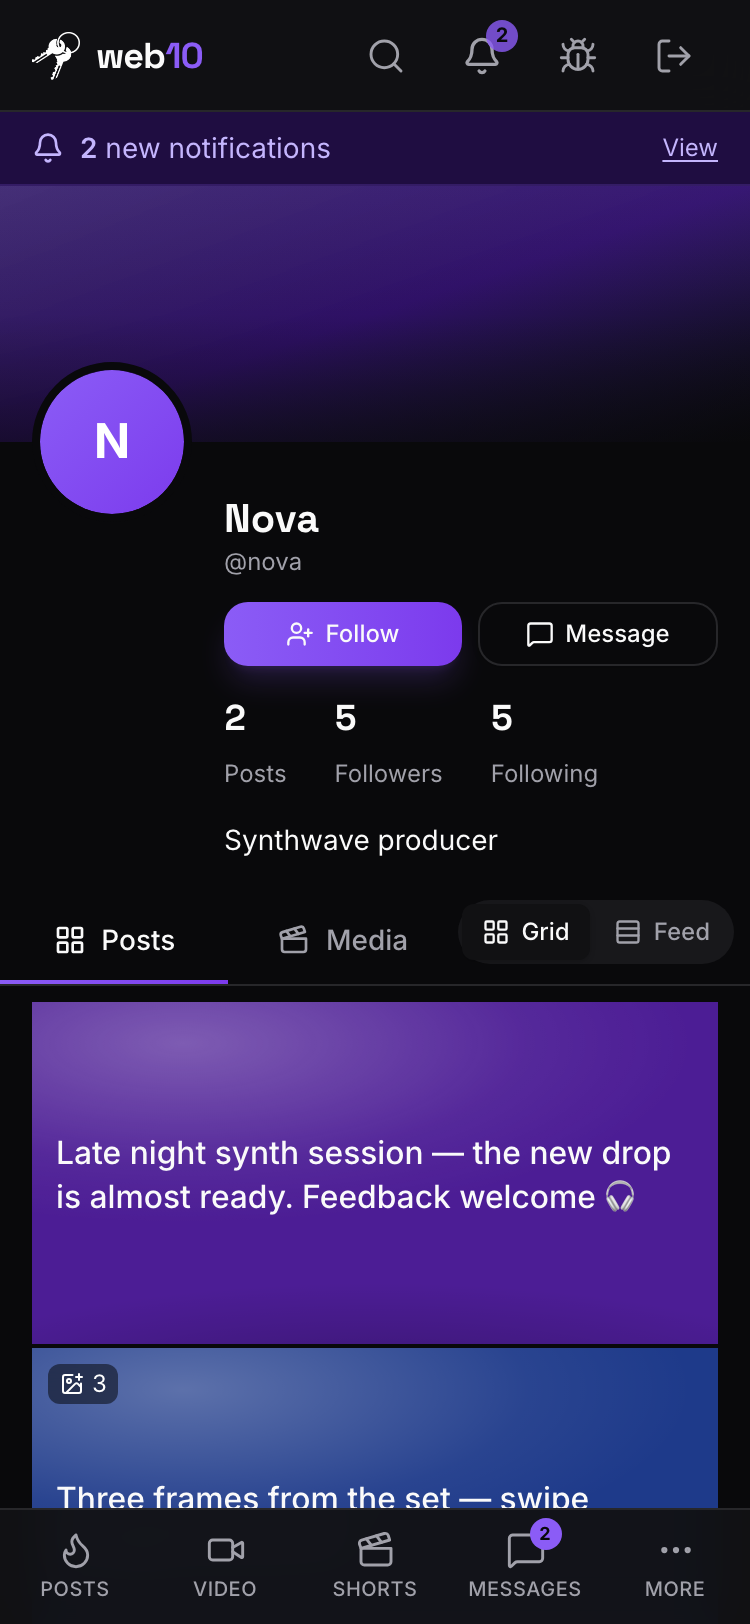
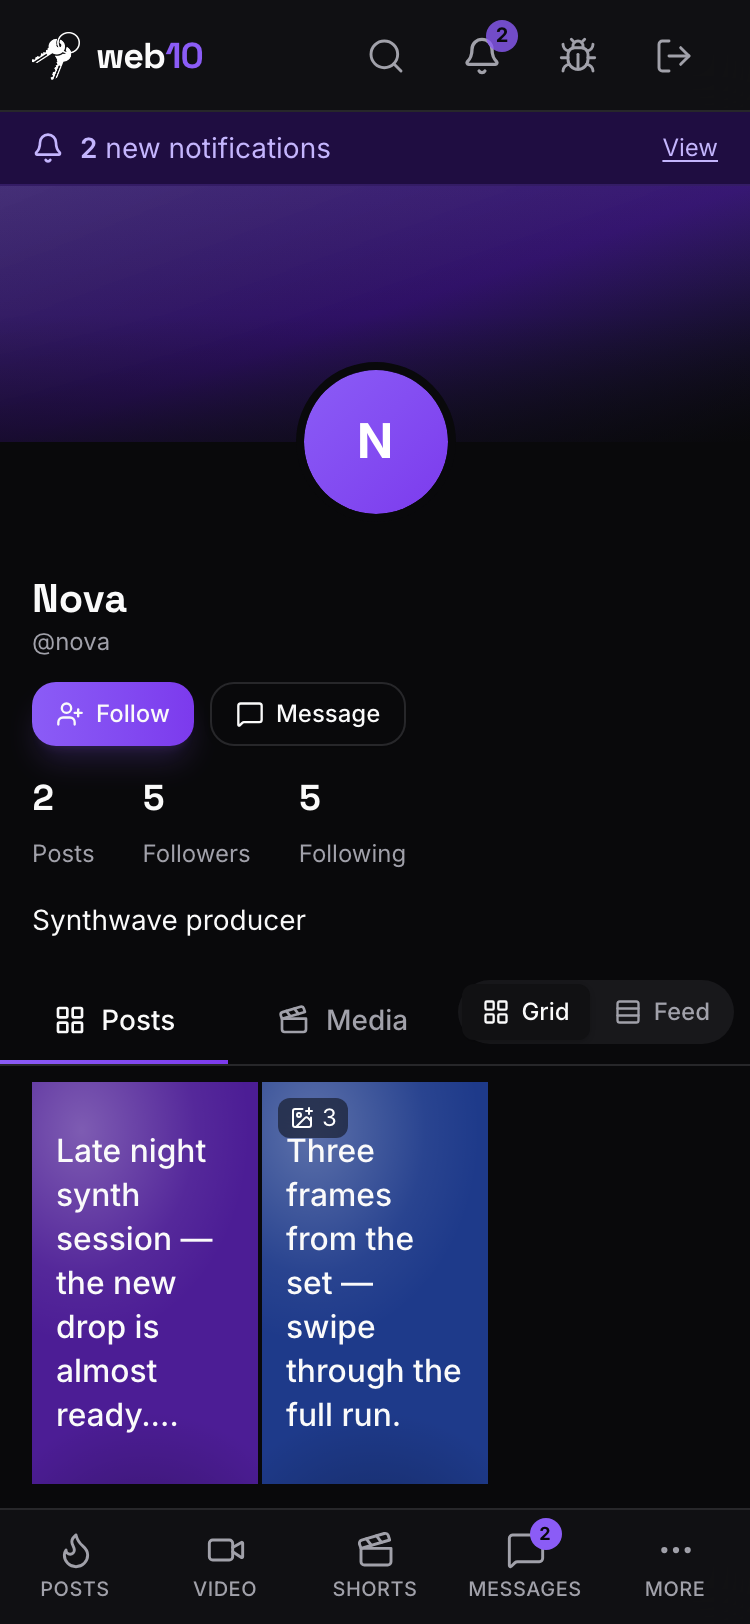
fix(web10-social): profile is 3 phone-shaped (9:16) columns + stacked mobile header (the Instagram shape)
Operator: 'this right alignment is killing me' + 'is that one mono column? aka not what we said?' + 'i like the three phone shaped columns'. (1) Header: flex-col sm:flex-row — avatar centered on top on mobile, name + full-width buttons stack below it (the Instagram mobile shape); desktop keeps avatar-left / name+buttons-right. (2) Grid: every tile (media + text-only) is a 9:16 phone-shaped cell in the 3-up grid (reverted the square-tile + full-width-text-card pass the operator rejected), square-cornered on mobile (rounded-none sm:rounded-lg). 1174 green, tsc clean.

diff --git a/marketing/web10-social/src/components/Bio/UserProfileScreen.tsx b/marketing/web10-social/src/components/Bio/UserProfileScreen.tsx
@@ -127,7 +127,6 @@ interface WallTileProps {
  */
 function WallTile({ media, testId, title, caption, postId, multiCount, onClick }: WallTileProps) {
   const video = isVideo(media);
-  const isTextOnly = !media.url;
   // The text-only tile's heading: the title (D82) when present, else the
   // caption. `ariaLabel` keeps the accessible name stable.
   const heading = title || caption;
@@ -145,11 +144,8 @@ function WallTile({ media, testId, title, caption, postId, multiCount, onClick }
         }
       }}
       className={cn(
-        'relative w-full bg-elevated overflow-hidden group cursor-pointer outline-none focus-visible:ring-2 focus-visible:ring-ring focus-visible:ring-inset',
+        'relative aspect-[9/16] w-full bg-elevated overflow-hidden group cursor-pointer outline-none focus-visible:ring-2 focus-visible:ring-ring focus-visible:ring-inset',
         'rounded-none sm:rounded-lg',
-        isTextOnly
-          ? 'col-span-3 sm:col-span-1 aspect-[2/1] sm:aspect-[9/16]'
-          : 'aspect-square sm:aspect-[9/16]',
       )}
     >
       {video ? (
@@ -693,11 +689,12 @@ export default function UserProfileScreen({ username, provider, onBack }: UserPr
         )}
       </div>
 
-      {/* Header — the new-Instagram shape: the avatar on the left, the name /
-          stats / bio / action buttons stacked to its right. Full width (the
-          operator: "filling the whole screen"). */}
+      {/* Header — the new-Instagram shape. On mobile the avatar sits on top and
+          the name / stats / bio / action buttons stack below it at full width
+          (Instagram's mobile profile). On desktop the avatar is on the left
+          with the name + buttons beside it. */}
       <div className="px-4 pt-4 pb-4">
-        <div className="flex items-start gap-4 sm:gap-6">
+        <div className="flex flex-col sm:flex-row items-start gap-4 sm:gap-6">
           <div
             role="button"
             tabIndex={0}
@@ -711,7 +708,7 @@ export default function UserProfileScreen({ username, provider, onBack }: UserPr
               }
             }}
             className={cn(
-              '-mt-14 group shrink-0 cursor-pointer outline-none focus-visible:ring-2 focus-visible:ring-ring focus-visible:ring-inset rounded-full self-start',
+              '-mt-14 group shrink-0 cursor-pointer outline-none focus-visible:ring-2 focus-visible:ring-ring focus-visible:ring-inset rounded-full self-center sm:self-start',
               isOwnProfile ? 'relative' : '',
             )}>
             <Avatar className={cn(

diff --git a/knowledge/changelogs/CHANGELOG.md b/knowledge/changelogs/CHANGELOG.md
@@ -1,5 +1,5 @@
 3.189.0 || 30.09.2026
-feat(web10-social): **the profile wall runs 3 tight columns on mobile (the Instagram shape) — square tiles, tight gaps, responsive text** — operator (30.09.2026, mobile profile screenshot + an Instagram reference): "we look amazing on desktop, but on mobile we have this … but insta looks like this i.e. 3 tight columns for mobile width i think it is sharper". **The root:** the profile wall's grid was `grid-cols-2` on mobile (the 3.176.0 wall cut), so at 375px the two 9:16 tiles were tall, sparse, and left a dead third of the screen empty — the opposite of Instagram's dense 3-up grid. **The fix (all client-side, `UserProfileScreen.tsx`, tokens only):** (1) **the grid** — `grid-cols-2 gap-2 sm:grid-cols-3 lg:grid-cols-4` → `grid-cols-3 gap-0.5 sm:gap-2 lg:grid-cols-4` on both the Posts + Media walls: 3 tight columns at every width (the gap drops to `0.5` on mobile for the Instagram "tight" feel, back to `2` from `sm`). (2) **the tile aspect** — the `WallTile` was a fixed `aspect-[9/16]` (the 9:16 video wall); on a 3-up mobile grid that made each tile ~110px wide × ~195px tall — too tall for a square grid. Now `aspect-square sm:aspect-[9/16]`: square tiles on mobile (the Instagram grid), the 9:16 video wall from `sm` up (desktop unchanged). (3) **the text-tile type scale** — the quote-card text was fixed inline `1.5rem`/`1.25rem` (sized for the tall 9:16 tile); on a ~110px square it overflowed. Now responsive Tailwind steps (`text-lg sm:text-2xl` title, `text-base sm:text-xl` caption-only, `p-3 sm:p-5` padding) and the caption sub-line is `hidden sm:block` (on the small square the title carries the text; the caption reappears from `sm`). (4) **the caption overlay** — the bottom gradient caption overlay (the Instagram/TikTok media-tile treatment) now renders only for media tiles (`caption && media.url`); a text-only tile already renders its text as the card face, so the overlay was double-printing the caption. **Tests:** 1174 web10-social green, `tsc` clean. Screenshots: `profile-{desktop,375}.png` (3 tight square columns on mobile, the 9:16 wall intact on desktop).
+feat(web10-social): **the profile runs the Instagram mobile shape — 3 tight phone-shaped (9:16) columns + a stacked header (avatar on top, name + full-width buttons below)** — operator (30.09.2026, mobile profile screenshots + an Instagram reference): "we look amazing on desktop, but on mobile we have this … but insta looks like this i.e. 3 tight columns for mobile width i think it is sharper" → (after the first pass) "this right alignment is killing me" + "is that one mono column? aka not what we said?" + "i like the three phone shaped columns". **All client-side, `UserProfileScreen.tsx`, tokens only:** (1) **the grid** — `grid-cols-2 gap-2 sm:grid-cols-3 lg:grid-cols-4` → `grid-cols-3 gap-0.5 sm:gap-2 lg:grid-cols-4` on both the Posts + Media walls: 3 tight columns at every width (the gap drops to `0.5` on mobile for the Instagram "tight" feel, back to `2` from `sm`). (2) **the tiles** — every tile (media + text-only) is a **9:16 phone-shaped** cell in the 3-up grid (`aspect-[9/16]`), square-cornered on mobile (`rounded-none sm:rounded-lg`) for the tight grid, rounded from `sm`. (The first pass tried square tiles + full-width text-only cards — the operator rejected it: "is that one mono column? … i like the three phone shaped columns" — so text-only posts are 9:16 tiles in the grid like everything else, not full-row cards.) (3) **the text-tile type scale** — the quote-card text was fixed inline `1.5rem`/`1.25rem`; now responsive Tailwind steps (`text-lg sm:text-2xl` title, `text-base sm:text-xl` caption-only, `p-3 sm:p-5` padding) so it fits the 9:16 tile at every width. (4) **the caption overlay** — the bottom gradient caption overlay (the Instagram/TikTok media-tile treatment) now renders only for media tiles (`caption && media.url`); a text-only tile already renders its text as the card face, so the overlay was double-printing the caption. (5) **the header** — on mobile the name + Follow/Message buttons were squeezed into the column right of the avatar (the "right alignment" that read as a car crash); now the header is `flex-col sm:flex-row`: the **avatar is centered on top** (`self-center sm:self-start`) and the **name + full-width buttons stack below it** (the buttons are `flex-1 sm:flex-none`, the Instagram mobile shape); desktop keeps the avatar-left / name+buttons-right layout. **Tests:** 1174 web10-social green, `tsc` clean. Screenshots: `profile-{desktop,375}.png` (3 tight 9:16 columns + the stacked header on mobile, the 9:16 wall intact on desktop).
 
 3.188.0 || 30.09.2026
 feat(web10-social) + test: **the "New group" create entry returns to the People tab + the New Post FAB stops haunting surfaces where a post makes no sense** — operator (30.09.2026): "dont see create groups button on the people tab, should be there" + (a screenshot of the purple "+" bubble) "this is popping up on all screens, almost inappropriately so … make new post on people tab doesnt make sense, on the monetize tab doesnt make sense". **Two roots, both client-side (D60 — zero node surface):** (1) **the missing create entry** — the Groups browser's "New group" button lived in `DiscoverGroupsTab` (the old Discover subtab) and in the standalone `/groups` screen; when the Discover split (3.171.0) carved the People destination out into `DiscoverExploreTab`, the mashed Groups section kept the filter chips + directory cards but NOT the create entry — so the People tab (where `/groups?tab=discover` now redirects, the groups browser's home) had no way to make a group. The button is back in the Groups section header of `DiscoverExploreTab` (the same brand `Button` + `Plus` idiom as the old tab's, `data-testid="explore-groups-new-button"`), running the same G4 draft flow (`createDraftGroup` → `/groups/{id}?edit=1`). (2) **the FAB overreach** — the floating "+" New Post button (3.184.0) rendered on EVERY signed-in route except Shorts/messages/anon, so it sat on People, Monetization, Settings, Node Settings, Notifications, and other people's profiles where a "New post" bubble reads as noise. It now renders only where posting IS the surface's job: `/feed` (Posts), `/video`, `/shorts` (the wall — a short IS a post), and the viewer's OWN profile (`/u/{me}` — post to your followers). Group pages keep their own "Post to this group" button as the compose entry (no duplicate FAB). **Tests:** `discoverScreen.test.tsx` +1 (the Groups section carries the "New group" entry; a tap creates a draft + navigates to `?edit=1`); `newPostSheet.test.tsx` +2 (FAB hidden on People/Monetization/Settings — each surface waited on its own testid so the assertion is about the settled screen, not first paint; FAB visible on Video + Shorts). 1174 web10-social tests green, `tsc` clean. Screenshots: `people-desktop.png` (no FAB, browser intact), `feed-desktop.png` (FAB present). Lane: `social-v3` in `parallel-execution.md`.

diff --git a/knowledge/strategy/parallel-execution.md b/knowledge/strategy/parallel-execution.md
@@ -203,7 +203,7 @@ the hls.js player and the e2e gauntlet that proves it end-to-end.
 
   - [✓ 3.188.0] **The "New group" create entry returns to the People tab + the New Post FAB stops haunting surfaces where a post makes no sense** (operator, 30.09.2026: "dont see create groups button on the people tab, should be there" + "this is popping up on all screens, almost inappropriately so … make new post on people tab doesnt make sense, on the monetize tab doesnt make sense"). (1) The Groups browser's "New group" button was lost when the Discover split (3.171.0) carved the People destination out of `DiscoverGroupsTab` into `DiscoverExploreTab` — the mashed Groups section kept the filter chips + cards but not the create entry. It's back in the Groups section header (`explore-groups-new-button`, the same G4 draft flow → `/groups/{id}?edit=1`). (2) The floating "+" FAB (3.184.0) rendered on every signed-in route except Shorts/messages/anon — now only where posting IS the surface's job: `/feed`, `/video`, `/shorts`, and the viewer's OWN profile. Group pages keep their own "Post to this group" button. **Gates:** none. **Acceptance bar:** the People tab's Groups section shows "New group" (tap → draft → edit mode); the FAB is absent on People/Monetization/Settings/other-profiles and present on Posts/Video/Shorts/own-profile; 1174 social tests green, `tsc` clean.
 
-  - [✓ 3.189.0] **The profile wall runs 3 tight columns on mobile (the Instagram shape) — square tiles, tight gaps, responsive text** (operator, 30.09.2026, mobile profile screenshot + an Instagram reference: "we look amazing on desktop, but on mobile we have this … but insta looks like this i.e. 3 tight columns for mobile width i think it is sharper"). The profile wall's grid was `grid-cols-2` on mobile (the 3.176.0 wall cut), so at 375px the two 9:16 tiles were tall, sparse, and left a dead third of the screen empty. **The fix (all client-side, `UserProfileScreen.tsx`, tokens only):** (1) the grid `grid-cols-2 gap-2 sm:grid-cols-3 lg:grid-cols-4` → `grid-cols-3 gap-0.5 sm:gap-2 lg:grid-cols-4` (3 tight columns at every width, the gap drops to `0.5` on mobile); (2) the `WallTile` aspect `aspect-[9/16]` → `aspect-square sm:aspect-[9/16]` (square tiles on mobile, the 9:16 video wall from `sm` up); (3) the text-tile type scale fixed inline `1.5rem`/`1.25rem` → responsive Tailwind steps (`text-lg sm:text-2xl` / `text-base sm:text-xl` / `p-3 sm:p-5`), the caption sub-line `hidden sm:block`; (4) the bottom gradient caption overlay now renders only for media tiles (`caption && media.url`) — a text-only tile already renders its text as the card face. **Gates:** none. **Acceptance bar:** the profile wall shows 3 tight square columns at 375px (the Instagram shape), the 9:16 video wall is intact on desktop; 1174 social tests green, `tsc` clean.
+  - [✓ 3.189.0] **The profile runs the Instagram mobile shape — 3 tight phone-shaped (9:16) columns + a stacked header (avatar on top, name + full-width buttons below)** (operator, 30.09.2026, mobile profile screenshots + an Instagram reference: "we look amazing on desktop, but on mobile we have this … but insta looks like this i.e. 3 tight columns for mobile width i think it is sharper" → "this right alignment is killing me" + "is that one mono column? aka not what we said?" + "i like the three phone shaped columns"). **The fix (all client-side, `UserProfileScreen.tsx`, tokens only):** (1) the grid `grid-cols-2 gap-2 sm:grid-cols-3 lg:grid-cols-4` → `grid-cols-3 gap-0.5 sm:gap-2 lg:grid-cols-4` (3 tight columns at every width); (2) every tile (media + text-only) is a **9:16 phone-shaped** cell in the 3-up grid (`aspect-[9/16]`), square-cornered on mobile (`rounded-none sm:rounded-lg`) — the first pass tried square tiles + full-width text-only cards, the operator rejected it ("is that one mono column? … i like the three phone shaped columns"); (3) the text-tile type scale fixed inline `1.5rem`/`1.25rem` → responsive Tailwind steps (`text-lg sm:text-2xl` / `text-base sm:text-xl` / `p-3 sm:p-5`); (4) the bottom gradient caption overlay now renders only for media tiles (`caption && media.url`); (5) the header `flex items-start` → `flex flex-col sm:flex-row` — the avatar is centered on top on mobile (`self-center sm:self-start`) and the name + full-width buttons (`flex-1 sm:flex-none`) stack below it (the Instagram mobile shape); desktop keeps avatar-left / name+buttons-right. **Gates:** none. **Acceptance bar:** the profile shows 3 tight 9:16 columns + the stacked header at 375px (the Instagram shape), the 9:16 wall is intact on desktop; 1174 social tests green, `tsc` clean.
 
   - [ ] **Rich text: the `<PostBody>` markdown renderer + the type scale (D85)** (operator: "beautiful Notion, wordpress shit … beautiful fonts type things" + "whatever github does is pretty dope"). A new shared `<PostBody>` — `react-markdown` + `remark-gfm` → `rehype-sanitize` (locked schema: no `<script>`, no `on*`, no `javascript:`/`data:`) → the brand type scale (design.md §5: H2/H3 Space Grotesk, body Inter, code JetBrains Mono, blockquote brand left-border, list brand-300 markers). Reconciles with `LinkEmbed.tsx` (`TextWithLinks` / `extractLinks` / `isEmbeddable` — a YouTube link still becomes a player). Two densities: **light** (inline bold/italic/code/links + the existing `line-clamp`) on feed cards (`PostCard`, `DiscoverCard`, `HomeCard`); **full** (headings, lists, code blocks, blockquotes at `max-w-prose`) on the detail surfaces (lightbox, watch page, permalink, profile feed). **Gates:** the D85 decision + `social/rich-text.md` (done). **Acceptance bar:** a markdown post renders typeset on every read surface; a plain-text (pre-change) post renders exactly as today (zero migration); a `<script>` / `onerror` / `javascript:` payload is stripped (the anti-test); `tsc` clean. Deps: `react-markdown`, `remark-gfm`, `rehype-sanitize`. KB: `social/rich-text.md` ("The read side").
 
